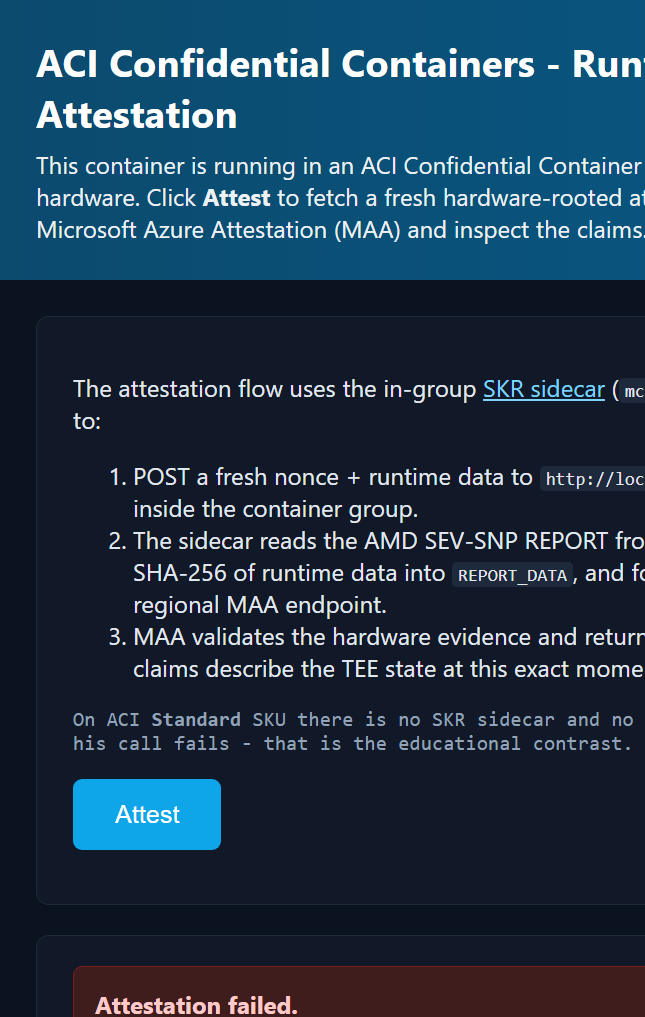
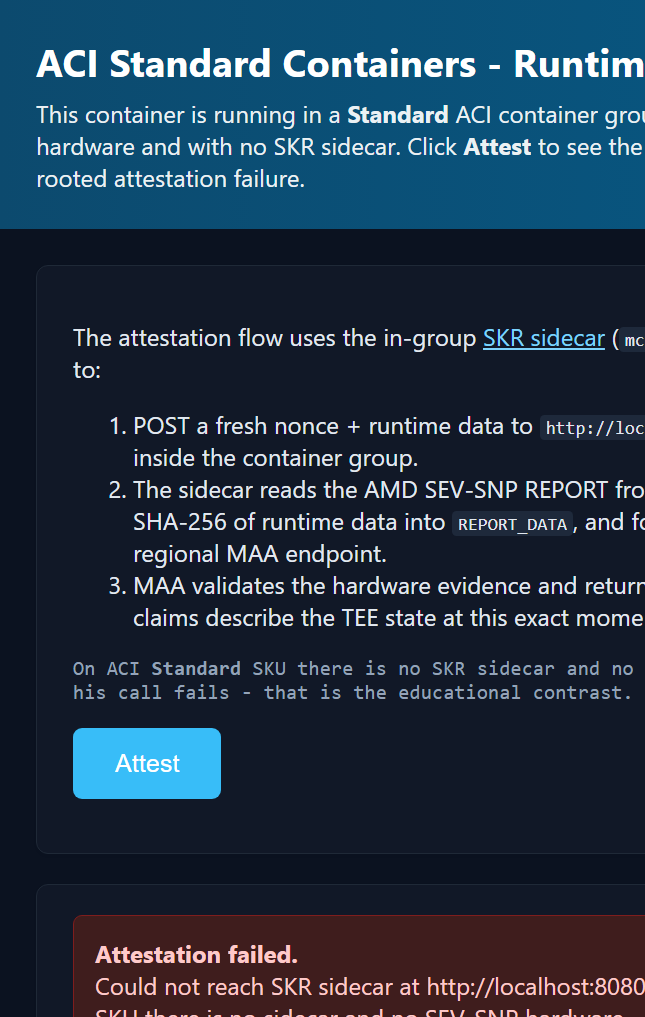
demo-v2: SKU-aware header text and updated screenshots
app.py and templates/index.html now branch on the ACI_SKU env var:
- Confidential containers keep the existing 'AMD SEV-SNP hardware' header.
- Standard containers render an 'ACI Standard Containers - Runtime
  Attestation' header that explicitly notes there is no TEE and no SKR
  sidecar, so the page no longer claims SEV-SNP hardware on the failure-
  path demo.

The Confidential ARM template sets ACI_SKU=Confidential as a new env var
(included in CCE policy regen). Screenshots in images/ are recaptured
from the side-by-side -Compare deploy.

Changed region(s): [[0.093, 0.3048, 1.0, 0.8535], [0.0, 0.0305, 1.0, 0.2743], [0.093, 0.884, 1.0, 1.0]]

diff --git a/aci-samples/visual-attestation-demo-v2/templates/index.html b/aci-samples/visual-attestation-demo-v2/templates/index.html
@@ -76,8 +76,12 @@
 <body>
   <header>
     <button id="themeBtn" class="theme-toggle" type="button" onclick="toggleTheme()" aria-label="Toggle dark mode">Dark mode</button>
-    <h1>ACI Confidential Containers - Runtime Attestation</h1>
+    <h1>ACI {% if is_confidential %}Confidential{% else %}Standard{% endif %} Containers - Runtime Attestation</h1>
+    {% if is_confidential %}
     <p>This container is running in an ACI Confidential Container group on AMD SEV-SNP hardware. Click <strong>Attest</strong> to fetch a fresh hardware-rooted attestation token from Microsoft Azure Attestation (MAA) and inspect the claims.</p>
+    {% else %}
+    <p>This container is running in a <strong>Standard</strong> ACI container group - <em>not</em> on AMD SEV-SNP hardware and with no SKR sidecar. Click <strong>Attest</strong> to see the expected hardware-rooted attestation failure.</p>
+    {% endif %}
   </header>
   <main>
     <div class="card">

diff --git a/aci-samples/visual-attestation-demo-v2/app.py b/aci-samples/visual-attestation-demo-v2/app.py
@@ -265,7 +265,8 @@ app = Flask(__name__)
 
 @app.route("/", methods=["GET"])
 def index():
-    return render_template("index.html")
+    is_confidential = os.environ.get("ACI_SKU", "").lower() == "confidential"
+    return render_template("index.html", is_confidential=is_confidential)
 
 
 @app.route("/healthz", methods=["GET"])